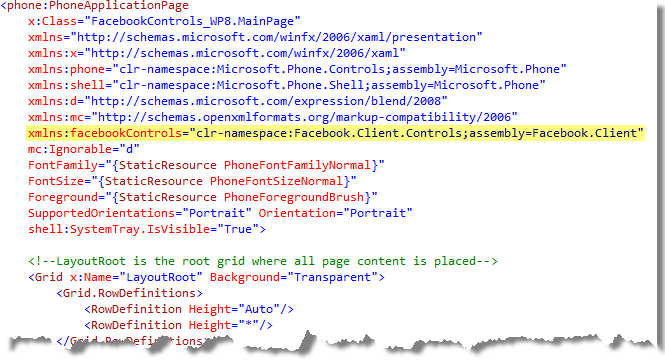
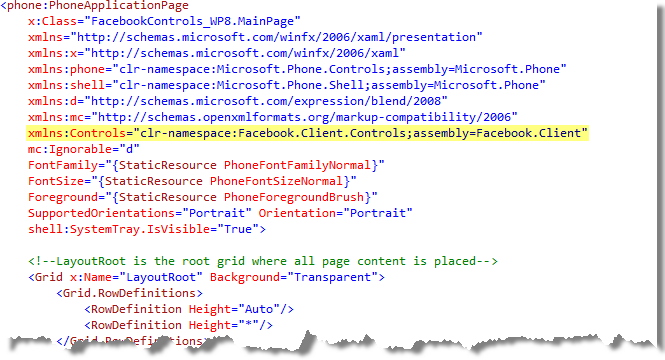
Adding missing include and links to Login how-to document, updated namespace prefix used for controls in the Facebook Client library

Changed region(s): [[0.0902, 0.3361, 0.9925, 0.3972]]

diff --git a/_includes/howtos/login.md b/_includes/howtos/login.md
@@ -1,0 +1,108 @@
+Facebook Login allows you to obtain a token to access Facebook's API on behalf of someone using your app. You can use this feature in place of building your own account system or to add Facebook services to your existing accounts.
+
+This document walks through the following topics:
+
+* [Prerequisites](#1)
+* [Sample Overview](#2)
+* [Step 1: Adding the LoginButton Control to your App](#3)
+* [Additional Info](#4)
+
+---
+
+## Prerequisites
+
+Before you get started, you need to register a Facebook Application by visiting the [App Dashboard](http://developers.facebook.com/apps) and obtaining an application ID. For more information, see for example, [Register and Configure a Facebook Application](https://developers.facebook.com/docs/samples/meals-with-friends/register-facebook-application/).
+
+---
+
+## Sample Overview
+
+
+The completed sample allows people to log in with Facebook by tapping a button. After someone authenticates, they can tap the same button to log out. If the person already authenticated when the app launched, the app remembers the logged-in state and displays a logout button.
+
+
+->![Running solution](images/running-solution.png)<-
+
+The Facebook SDK for .NET provides a [LoginButton](/docs/windows/controls/login-ui-control/) control that is a custom implementation of a Button. You can use this button in your app to implement Facebook Login. The LoginButton class maintains the session state, which allows it to display the correct text in the button based on the authentication state. Adding LoginButton to your application is a quick way to implement Facebook Login.
+
+---
+
+## Step 1: Adding the LoginButton Control to your App
+
+At the end of this section, someone using your app will be able to click a button to log in with Facebook.
+
+1.	Add the Facebook Client Library to your new project. Open the Package Manager Console from **Tools | Library Package Manager | Package Manager Console**, and then type the following command to install the **Facebook.Client NuGet package**.
+	
+		Install-Package Facebook.Client -pre
+		
+	![image](images/image2.png)
+
+1.	Open **MainPage.xaml** in your project and switch to its XAML view.
+
+1.	Add the following namespace mapping to the root element of the page allowing you to reference the controls in the Facebook Client Library by using the namespace prefix “_Controls_:”.
+
+		xmlns:Controls="clr-namespace:Facebook.Client.Controls;assembly=Facebook.Client"
+
+	![image](images/image3.png)
+
+1.	Insert a [LoginButton](/docs/reference/client/Client.Controls.LoginButton.html) control from the Facebook Client Library into your page, as shown below.
+
+{% if page.platform == 'windows' %}
+        <Controls:LoginButton
+            x:Name="loginButton"
+            HorizontalAlignment="Center"
+            VerticalAlignment="Top"
+            Margin="0,200,0,0"/>
+{% endif %}
+
+{% if page.platform == 'phone' %}
+		<Controls:LoginButton
+			x:Name="loginButton"
+			VerticalAlignment="Top"
+			HorizontalAlignment="Center"/>
+{% endif %}
+
+1.	Set the **ApplicationId** property of the [LoginButton](/docs/reference/client/Client.Controls.LoginButton.html) to the ID obtained when you registered your application in the Facebook portal. 
+ 
+	![image](images/image5.png)
+
+1.	In its current state, the application has no useful content that needs to be displayed. In its place, insert a **TextBlock** element with a welcome message into the content area to be shown once the user logs in.
+
+        <TextBlock 
+            x:Name="welcomeMessage"
+            Visibility="Collapsed"
+			FontSize="32"
+            HorizontalAlignment="Left" 
+            VerticalAlignment="Center" 
+            Text="welcome"/>
+
+1.	Now, insert code to make the content panel visible after the user logs in. To determine when the user has successfully opened the session, use the **SessionStateChanged** event of the [LoginButton](/docs/reference/client/Client.Controls.LoginButton.html) control.
+
+	Add a handler for this event by selecting the button on the design surface, and then showing its Events view in the Properties window. Locate the **SessionStateChanged** event entry, type _OnSessionStateChanged_ as the name of the event handler, then press **Enter** to create it and switch focus to the code-behind file.
+	 
+	![image](images/image8.png)
+
+1.	The code-behind file should already contain an empty implementation for the **OnSessionStateChanged** event handler. Insert the following code into the event handler body to make the welcome message visible.
+
+		private void OnSessionStateChanged(object sender, Facebook.Client.Controls.SessionStateChangedEventArgs e)
+		{
+			if (e.SessionState == Facebook.Client.Controls.FacebookSessionState.Opened)
+			{
+				this.welcomeMessage.Visibility = (e.SessionState == Facebook.Client.Controls.FacebookSessionState.Opened) ?
+					Visibility.Visible : Visibility.Collapsed;
+			}
+		}
+
+Build and run the project to make sure it runs without errors. Tap the _Login_ button to log in with Facebook.
+
+Once authenticated, you should see the welcome message on the page. Notice that the caption on the button changes to **Log Out**. 
+
+Click the button again to close the session.
+
+---
+
+## Additional Info
+
+- [LoginButton][1] - Reference for the LoginButton control
+
+[1]: /docs/windows/controls/login-ui-control/

diff --git a/_includes/howtos/fetch-user-data.md b/_includes/howtos/fetch-user-data.md
@@ -21,7 +21,7 @@ This document walks through the following:
 
 ## Prerequisites
 
-Before you begin, make sure you already set up [Facebook Login](#). This ensures you have the prerequisites and your app is ready for additional Facebook integration.
+Before you begin, make sure you already set up [Facebook Login](../login). This ensures you have the prerequisites and your app is ready for additional Facebook integration.
 
 ---
 
@@ -36,7 +36,7 @@ The completed sample lets users log in with Facebook and view a sample set of th
 
 - Data that is not strongly typed through the _GraphUser_ interface.
 
-The sample builds on top of [Facebook Login](#), adding a non-editable text view that displays the returned user data:
+The sample builds on top of [Facebook Login](../login), adding a non-editable text view that displays the returned user data:
 
 ->![Running solution](images/running-solution.png)<-
 
@@ -77,7 +77,7 @@ First, open the Main.xaml file and add a TextBlock control to the main page just
 
 The TextBlock will be set to hidden initially.
 
-If you followed the [Facebook Login](#) doc, you should have a _OnSessionStateChange()_ event handler in your Main.xaml.cs class file that is invoked whenever the user session state changes. Modify this method to show the buttons only when the user is authenticated:
+If you followed the [Facebook Login](../login) doc, you should have a _OnSessionStateChange()_ event handler in your Main.xaml.cs class file that is invoked whenever the user session state changes. Modify this method to show the buttons only when the user is authenticated:
 
     private void OnSessionStateChanged(object sender, Facebook.Client.Controls.SessionStateChangedEventArgs e)
     {
@@ -97,7 +97,7 @@ If you followed the [Facebook Login](#) doc, you should have a _OnSessionStateCh
 
 In this step, you'll configure your app to ask for permissions to display the sample set of user data. You'll ask for _user_location_ to get the user's current city, _user_birthday_ to get their birthday, and _user_likes_ to get their languages. The other user data you'll display are available publicly or with basic permissions.
 
-If you followed the [Facebook Login](#) doc, you should have a LoginButton control instance set up in the Main.xaml file. Open up the Main.xaml page. To request additional permissions, set the permissions attribute of the "loginButton" button as shown below:
+If you followed the [Facebook Login](../login) doc, you should have a LoginButton control instance set up in the Main.xaml file. Open up the Main.xaml page. To request additional permissions, set the permissions attribute of the "loginButton" button as shown below:
 
     <Controls:LoginButton 
         x:Name="loginButton"

diff --git a/_includes/howtos/run-fql-queries.md b/_includes/howtos/run-fql-queries.md
@@ -20,7 +20,7 @@ This document covers the following topics:
 
 ## Prerequisites
 
-Before you begin, make sure you already set up [Facebook Login](#). This ensures you have the prerequisites and your app is ready for additional Facebook integration.
+Before you begin, make sure you already set up [Facebook Login](../login). This ensures you have the prerequisites and your app is ready for additional Facebook integration.
 
 ---
 
@@ -28,7 +28,7 @@ Before you begin, make sure you already set up [Facebook Login](#). This ensures
 
 The completed sample allows users to log in with Facebook and run a query to output a limited set of friends.
 
-The implementation builds on top of [Facebook Login](#) with two buttons that make FQL calls to fetch essentially the same information. One button runs a query that includes a sub query. The second button splits the call up into a multi-query. This shows how you can take data from one query and use it in the second. The completed app allows you to retrieve similar information from the query and multi-query call:
+The implementation builds on top of [Facebook Login](../login) with two buttons that make FQL calls to fetch essentially the same information. One button runs a query that includes a sub query. The second button splits the call up into a multi-query. This shows how you can take data from one query and use it in the second. The completed app allows you to retrieve similar information from the query and multi-query call:
 
 ->![FQL Sample](images/fql-howto-sample.png)<-
 
@@ -84,7 +84,7 @@ First, open the Main.xaml file and add two button controls to the main page just
 
 The buttons will be set to hidden initially.
 
-If you followed the [Facebook Login](#) doc, you should have a _OnSessionStateChange()_ event handler in your Main.xaml.cs class file that is invoked whenever the user session state changes. Modify this method to show the buttons only when the user is authenticated:
+If you followed the [Facebook Login](../login) doc, you should have a _OnSessionStateChange()_ event handler in your Main.xaml.cs class file that is invoked whenever the user session state changes. Modify this method to show the buttons only when the user is authenticated:
 
 	private void OnSessionStateChanged(object sender, Facebook.Client.Controls.SessionStateChangedEventArgs e)
 	{

diff --git a/_includes/howtos/publish-to-feed.md b/_includes/howtos/publish-to-feed.md
@@ -17,14 +17,14 @@ This document walks through the following:
 
 ## Prerequisites
 
-Before you begin, make sure you already set up [Facebook Login](#). This ensures you have the prerequisites and your app is ready for additional Facebook integration.
+Before you begin, make sure you already set up [Facebook Login](../login). This ensures you have the prerequisites and your app is ready for additional Facebook integration.
 
 ---
 
 ## Sample Overview
 
 
-The completed sample application from this tutorial lets users log in with Facebook and publish a link to their Timeline. It builds on top of the sample from [Facebook Login](#), adding a button that posts a hard-coded story to the user's Timeline. If the post is successful, an alert pops up with the story's ID.
+The completed sample application from this tutorial lets users log in with Facebook and publish a link to their Timeline. It builds on top of the sample from [Facebook Login](../login), adding a button that posts a hard-coded story to the user's Timeline. If the post is successful, an alert pops up with the story's ID.
 
 ->![Running solution](images/running-solution.png)<-
 
@@ -65,7 +65,7 @@ First, open the Main.xaml file and add a Button control to the main page just be
 
 The Button will be set to hidden initially.
 
-If you followed the [Facebook Login](#) doc, you should have a _OnSessionStateChange()_ event handler in your Main.xaml.cs class file that is invoked whenever the user session state changes. Modify this method to show the buttons only when the user is authenticated:
+If you followed the [Facebook Login](../login) doc, you should have a _OnSessionStateChange()_ event handler in your Main.xaml.cs class file that is invoked whenever the user session state changes. Modify this method to show the buttons only when the user is authenticated:
 
     private void OnSessionStateChanged(object sender, Facebook.Client.Controls.SessionStateChangedEventArgs e)
     {

diff --git a/_includes/howtos/batch-requests.md b/_includes/howtos/batch-requests.md
@@ -13,7 +13,7 @@ This document walks through the following topics:
 
 ## Prerequisites
 
-Before you begin, make sure you already set up [Facebook Login](#). This ensures you have the prerequisites and your app is ready for additional Facebook integration.
+Before you begin, make sure you already set up [Facebook Login](../login). This ensures you have the prerequisites and your app is ready for additional Facebook integration.
 
 ---
 
@@ -84,7 +84,7 @@ First, open the Main.xaml file and add a button control to the main page just be
 
 The button will be set to hidden initially.
 
-If you followed the [Facebook Login](#) doc, you should have a _OnSessionStateChange()_ event handler in your Main.xaml.cs class file that is invoked whenever the user session state changes. Modify this method to show the buttons only when the user is authenticated:
+If you followed the [Facebook Login](../login) doc, you should have a _OnSessionStateChange()_ event handler in your Main.xaml.cs class file that is invoked whenever the user session state changes. Modify this method to show the buttons only when the user is authenticated:
 
     private void OnSessionStateChanged(object sender, Facebook.Client.Controls.SessionStateChangedEventArgs e)
     {
